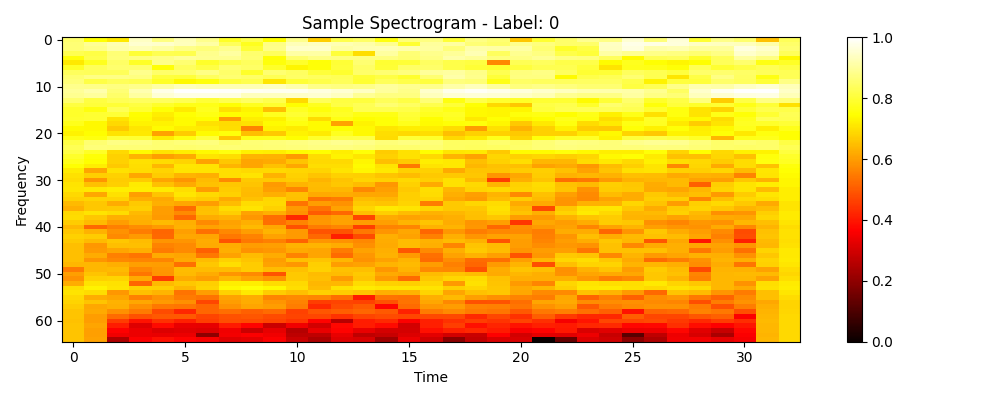
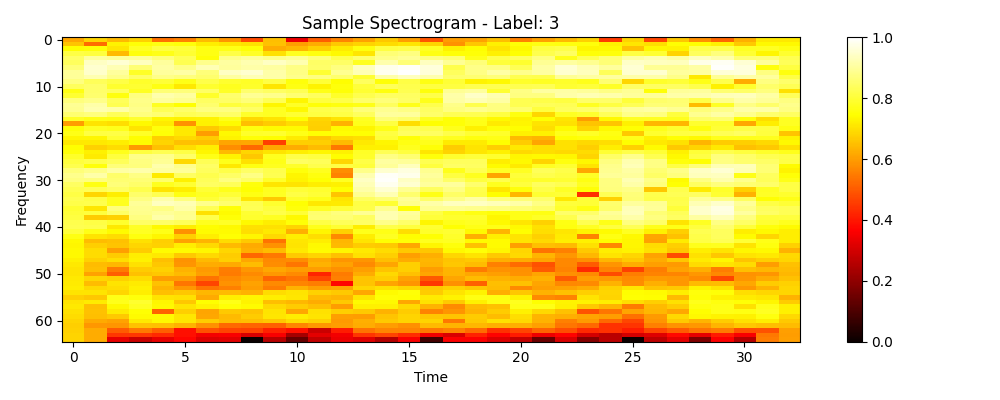
feat:第二次真正训练，训练故障CWRU数据集，训练损失验证损失下降，效果还可以

diff --git a/config.py b/config.py
@@ -9,7 +9,7 @@ class Config:
     description = "基线模型：简单CNN，CWRU数据，时频图输入"
 
     # 数据配置
-    data_path = r"D:\bearing_fault_baseline\data\1797"  # 你需要下载CWRU数据放到这个路径
+    data_path = r"D:\bearing_fault_baseline\data\1730"  # 你需要下载CWRU数据放到这个路径
     sampling_rate = 12000  # CWRU数据的采样率
     signal_length = 1024  # 每个样本的信号长度
     train_ratio = 0.7

diff --git a/experiments_log.md b/experiments_log.md
@@ -5,3 +5,46 @@ exp_001\2025.9.28\基线模型，训练轴承健康数据，达到预期
 Val Loss: 0.0000 | Val Acc: 100.00% | Val F1: 1.0000
 
 
+
+实验概览
+exp_002\2025.9.28\基线模型，训练故障数据
+
+实验详情
+# 数据配置
+    data_path = r"D:\bearing_fault_baseline\data\1730"  # 你需要下载CWRU数据放到这个路径
+    sampling_rate = 12000  # CWRU数据的采样率
+    signal_length = 1024  # 每个样本的信号长度
+    train_ratio = 0.7
+    val_ratio = 0.15
+    test_ratio = 0.15
+
+    # 时频图配置
+    n_fft = 64  # FFT窗口大小
+    hop_length = 32  # 跳跃长度
+
+    # 模型配置
+    num_classes = 4  # CWRU通常有4个类别
+    input_channels = 1  # 灰度图
+
+    # 训练配置
+    batch_size = 32
+    num_epochs = 50
+    learning_rate = 0.001
+    device = torch.device("cuda" if torch.cuda.is_available() else "cpu")
+
+第一轮
+Train Loss: 1.1050 | Train Acc: 44.89%
+Val Loss: 1.0547 | Val Acc: 46.72% | Val F1: 0.2975
+新的最佳模型已保存! 验证准确率: 46.72%
+
+第五轮
+Train Loss: 0.1621 | Train Acc: 95.33%
+Val Loss: 0.0642 | Val Acc: 100.00% | Val F1: 1.0000
+新的最佳模型已保存! 验证准确率: 100.00%
+
+第五十轮
+Train Loss: 0.0017 | Train Acc: 100.00%
+Val Loss: 0.0002 | Val Acc: 100.00% | Val F1: 1.0000
+
+
+
